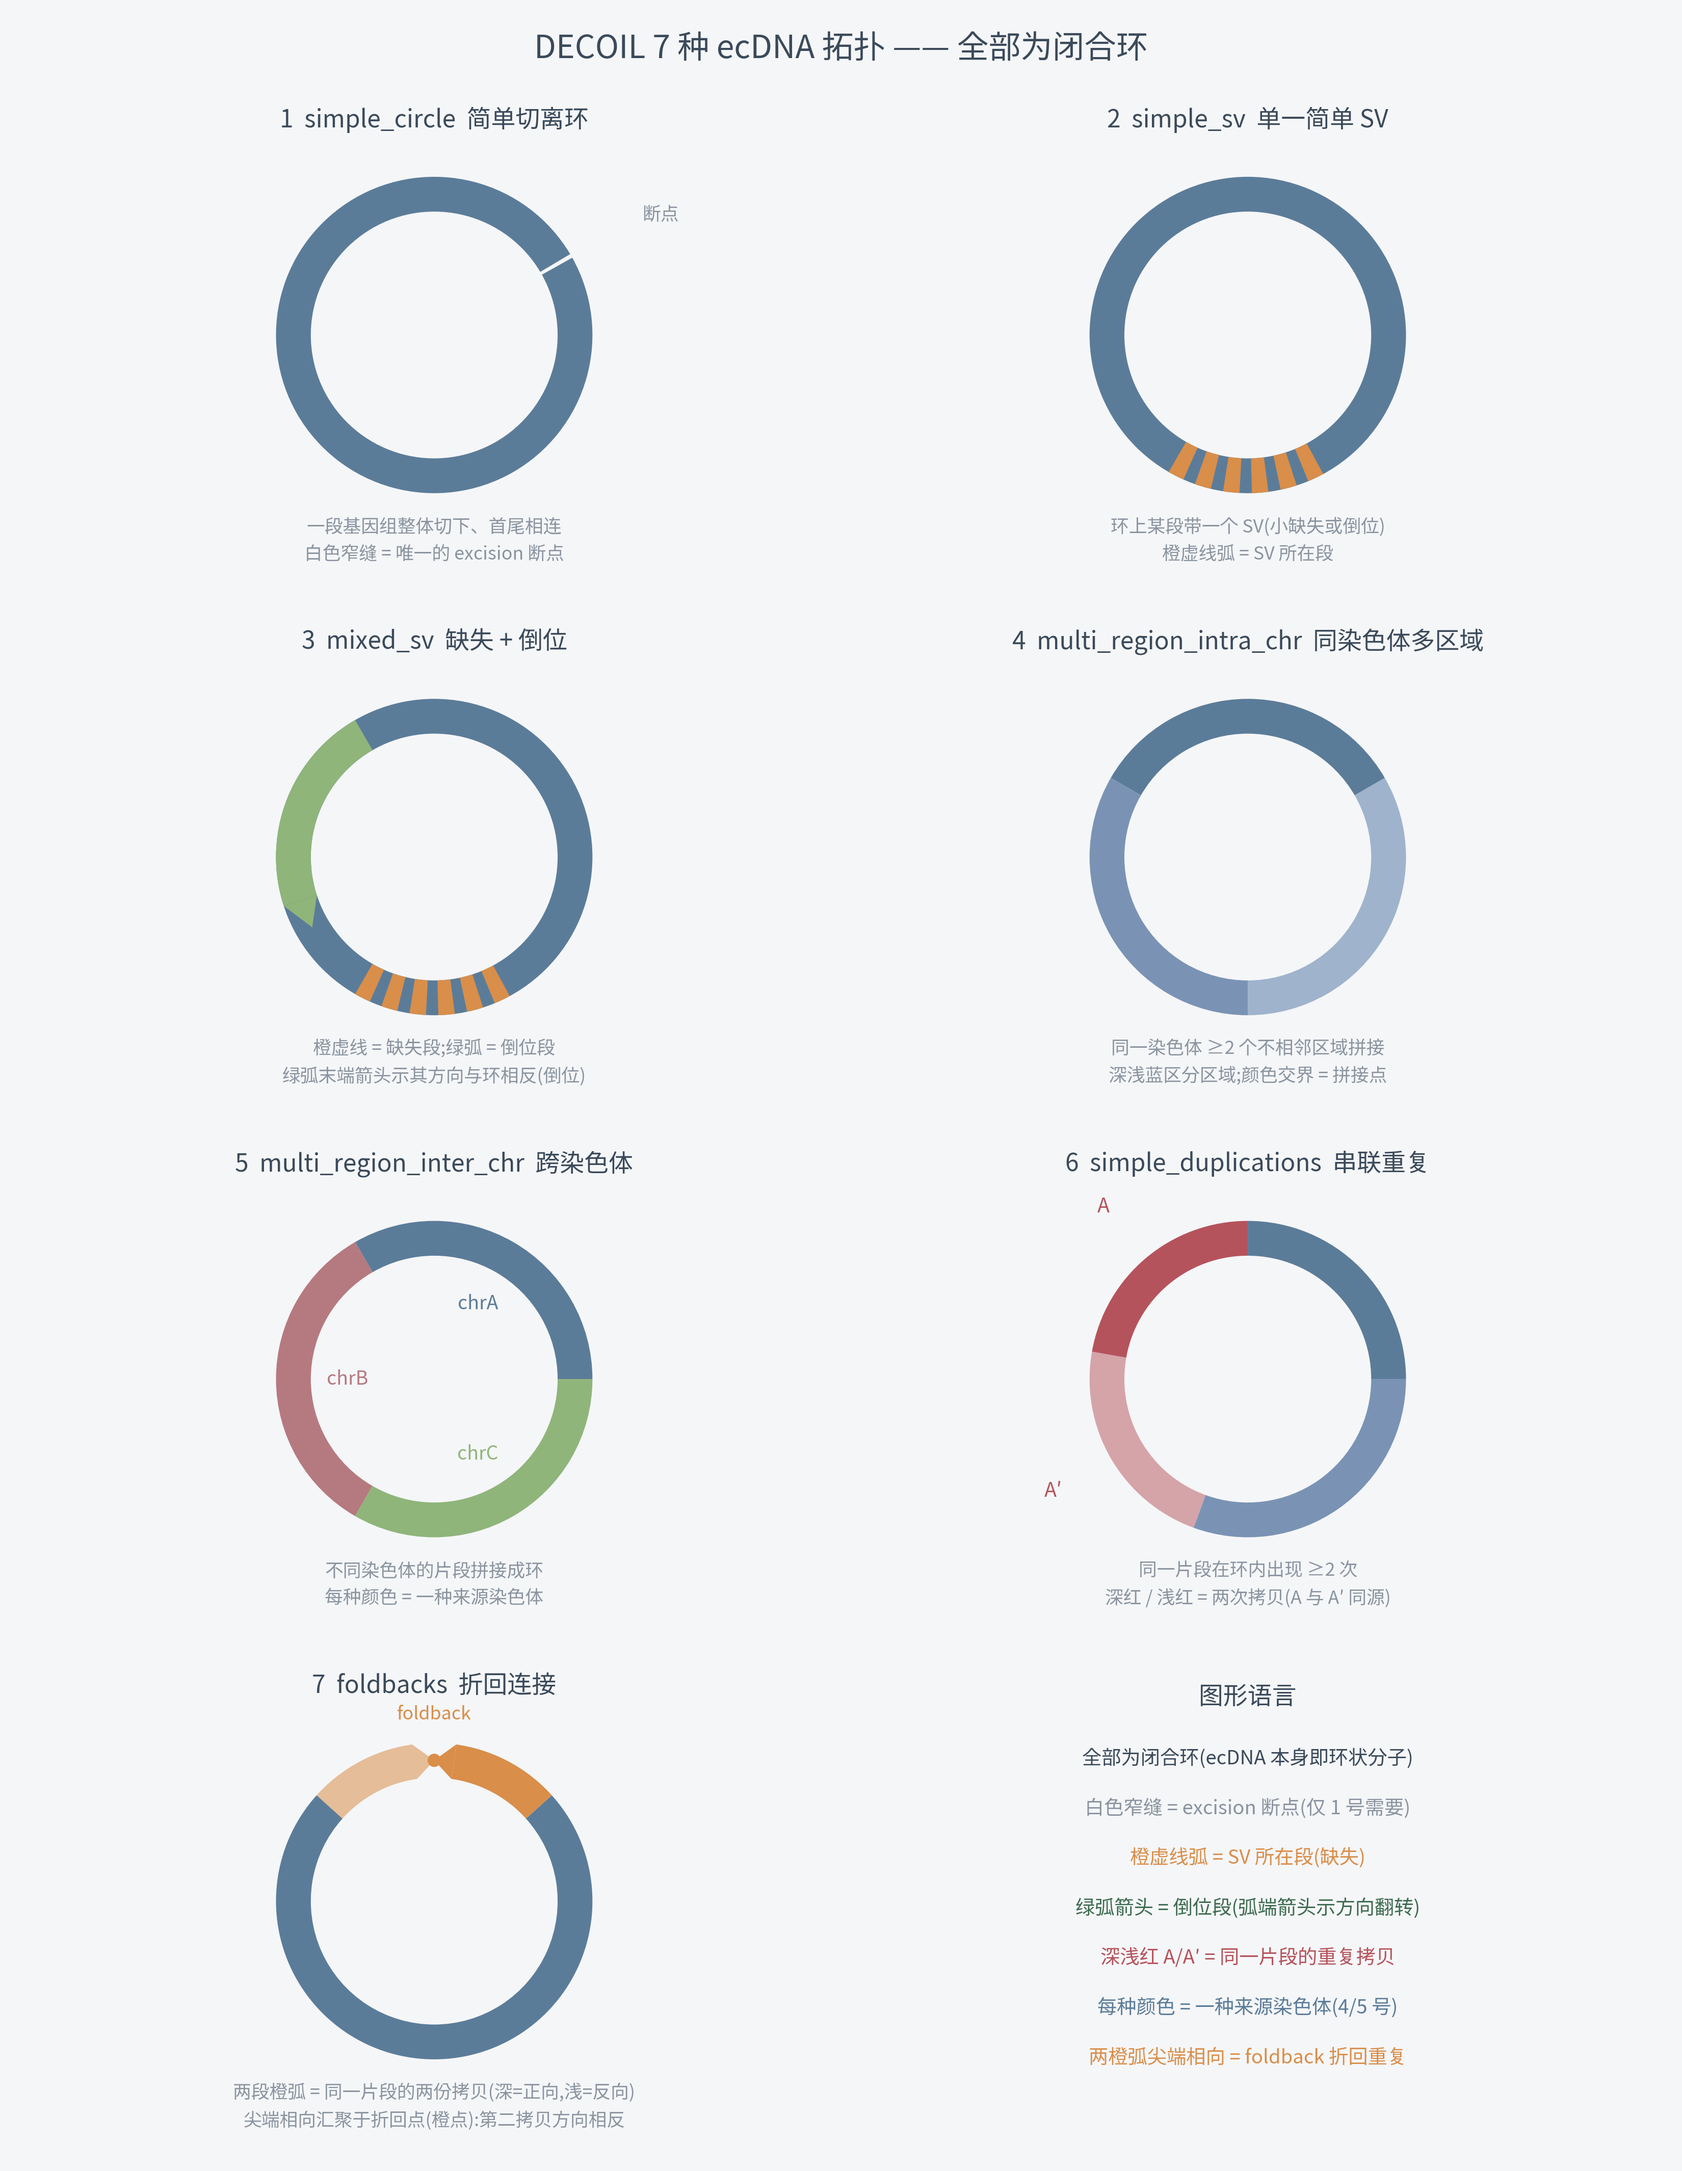
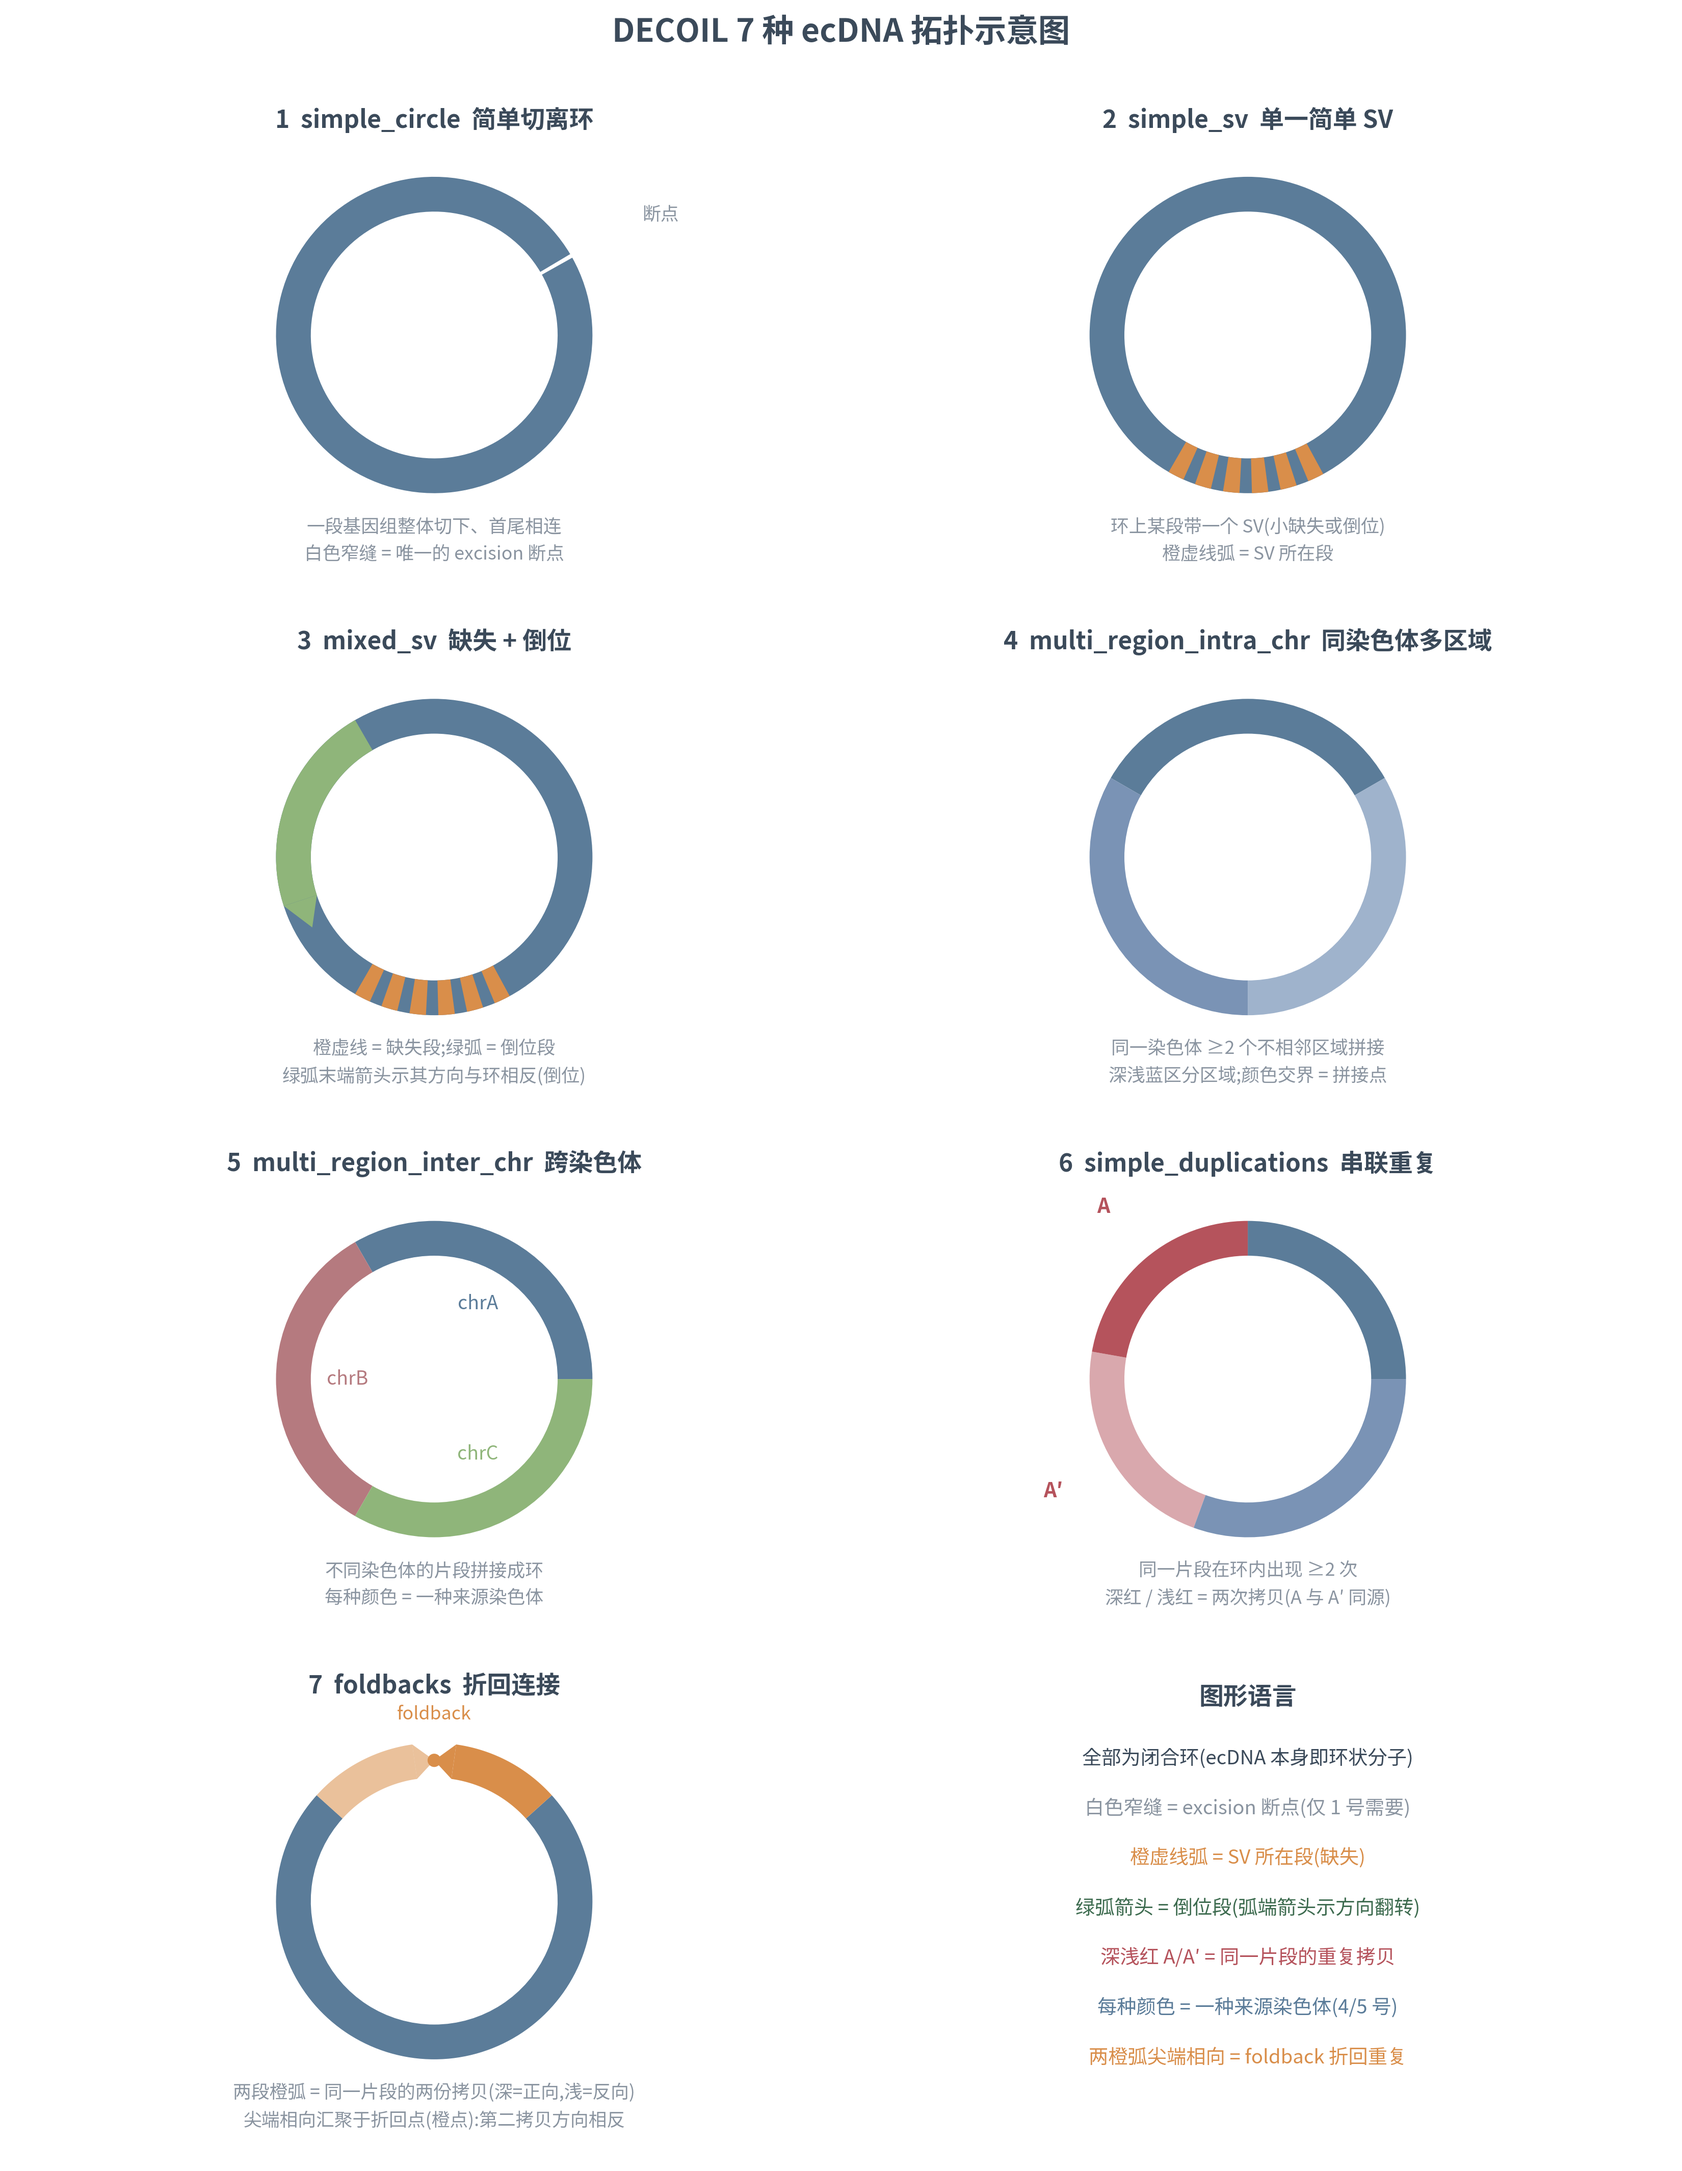
fix: change background color

diff --git a/modules/decoil/bin/topology_legend.py b/modules/decoil/bin/topology_legend.py
@@ -146,7 +146,7 @@ def main():
 
     fig, axes = plt.subplots(4, 2, figsize=(11.0, 14.2), dpi=300)
     fig.patch.set_facecolor("#F5F6F8")
-    fig.suptitle("DECOIL 7 种 ecDNA 拓扑 —— 全部为闭合环",
+    fig.suptitle("DECOIL 7 种 ecDNA 拓扑示意图", ha="center", va="center",
                  fontsize=15, color=INK, fontweight="bold", y=0.985)
     for ax in axes.flat:
         ax.set_facecolor("white")
@@ -259,7 +259,12 @@ def main():
         a.text(0.5, 0.80 - i * 0.105, txt, ha="center", va="center",
                fontsize=9.2, color=col)
 
-    fig.savefig(out, facecolor=fig.get_facecolor())
+    fig.savefig(
+        out,
+        facecolor="white",
+        edgecolor="white",
+        transparent=False,
+    )
     print(f"Saved {out}")
 
 
